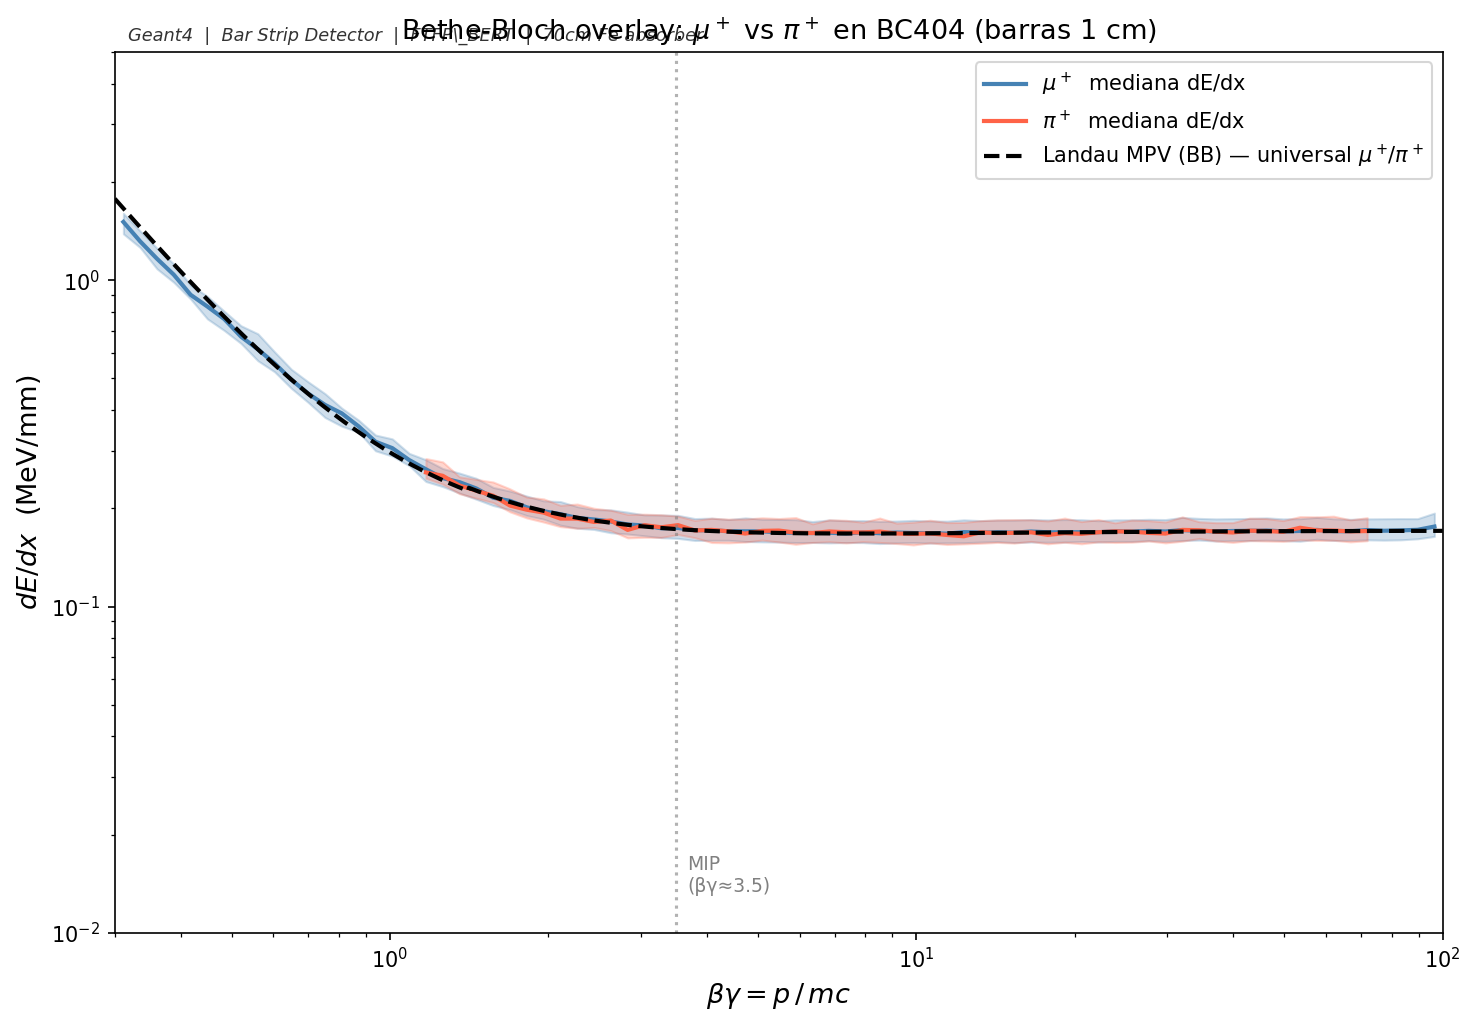
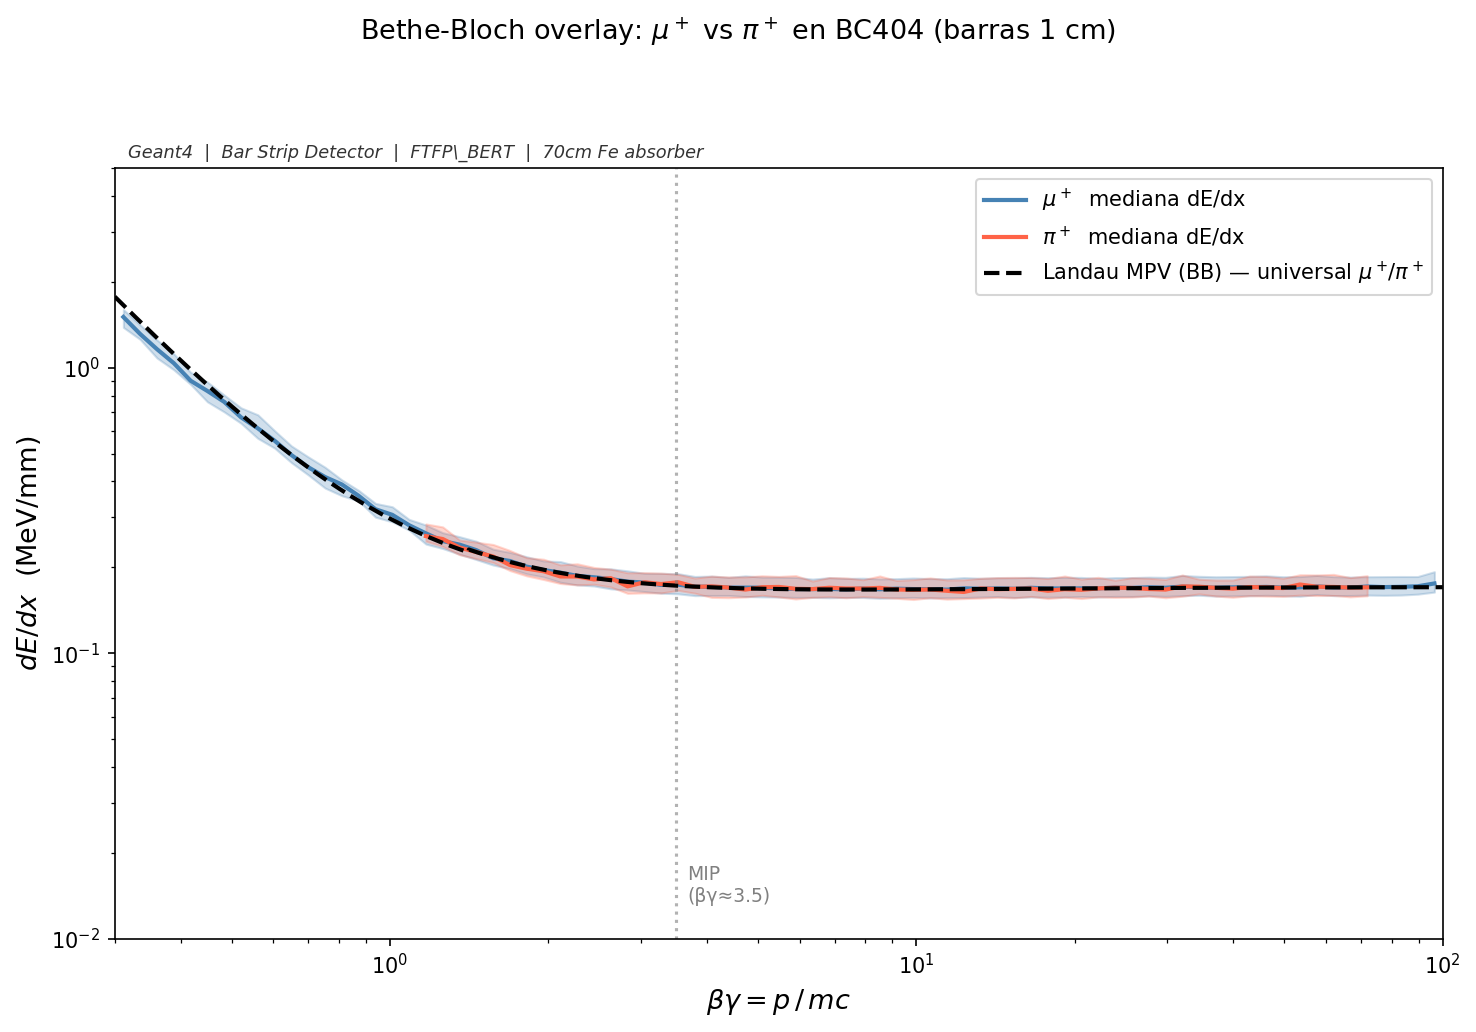
LG2M

diff --git a/Bar Strip Detector/plot_bethe_bloch.py b/Bar Strip Detector/plot_bethe_bloch.py
@@ -437,11 +437,11 @@ def plot_overlay(mu, pi, out_dir):
     ax.set_xscale("log"); ax.set_yscale("log")
     ax.set_xlabel(r"$\beta\gamma = p\,/\,mc$", fontsize=13)
     ax.set_ylabel(r"$dE/dx$  (MeV/mm)", fontsize=13)
-    ax.set_title(r"Bethe-Bloch overlay: $\mu^+$ vs $\pi^+$ en BC404 (barras 1 cm)", fontsize=13)
     ax.set_xlim(bg_range); ax.set_ylim(DEDX_MIN, DEDX_MAX)
     ax.legend(fontsize=10, framealpha=0.8)
     _add_info(ax)
-    fig.tight_layout()
+    fig.suptitle(r"Bethe-Bloch overlay: $\mu^+$ vs $\pi^+$ en BC404 (barras 1 cm)", fontsize=13)
+    fig.tight_layout(rect=[0, 0, 1, 0.94])
     _save(fig, out_dir, "bethe_bloch_overlay.png")
 
 
@@ -505,10 +505,10 @@ def plot_pid_combined(mu, pi, out_dir):
     ax.set_xscale("log")
     ax.set_xlabel(r"$p$  (GeV/c)", fontsize=13)
     ax.set_ylabel(r"$dE/dx$  (MeV/mm)", fontsize=13)
-    ax.set_title(r"PID: $\mu^+$ vs $\pi^+$ en BC404 bar strip detector", fontsize=13)
     ax.set_xlim(p_range_GeV); ax.set_ylim(0, DEDX_LIN_MAX)
     _add_info(ax)
-    fig.tight_layout()
+    fig.suptitle(r"PID: $\mu^+$ vs $\pi^+$ en BC404 bar strip detector", fontsize=13)
+    fig.tight_layout(rect=[0, 0, 1, 0.94])
     _save(fig, out_dir, "pid_combined.png")
 
 
@@ -535,9 +535,10 @@ def plot_layer_hits(mu, pi, out_dir):
         for rect, val in zip(bars, [layer0, layer1]):
             ax.text(rect.get_x() + rect.get_width() / 2, rect.get_height() * 1.01,
                     f"{val:,}", ha="center", va="bottom", fontsize=10)
-        ax.set_title(f"Hits por capa — {particle_label}", fontsize=12)
         ax.set_ylabel("Número de hits", fontsize=11)
         ax.set_ylim(0, max(layer0, layer1) * 1.15)
+        ax.text(0.5, 0.97, f"Hits por capa — {particle_label}",
+                transform=ax.transAxes, fontsize=12, ha="center", va="top", fontweight="bold")
         _add_info(ax, particle=particle_label)
 
     fig.tight_layout()
@@ -614,12 +615,11 @@ def plot_efficiency(glob_pattern: str, out_dir: str, n_total: int = 1000):
     ax.axhline(0.5, color="gray", ls=":", lw=1, alpha=0.5)
     ax.set_xlabel(r"$p$  (GeV/c)", fontsize=12)
     ax.set_ylabel(r"$\varepsilon = N_\mathrm{det}\,/\,N_\mathrm{total}$", fontsize=12)
-    ax.set_title(r"$\varepsilon = N_\mathrm{det}\,/\,N_\mathrm{total}$", fontsize=11)
     ax.set_ylim(-0.05, 1.10)
     ax.legend(fontsize=11, framealpha=0.85)
     _add_info(ax)
 
-    fig.tight_layout()
+    fig.tight_layout(rect=[0, 0, 1, 0.94])
     _save(fig, out_dir, "efficiency_vs_momentum.png")
 
 

diff --git a/Bar Strip Detector/README.md b/Bar Strip Detector/README.md
@@ -36,7 +36,8 @@ Cubo de G4_Fe, 70 × 70 × 70 cm, centrado en z = 35 cm.
 | Cobertura transversal | 1 m × 1 m |
 | Capa 1 | Barras a lo largo de X, posicionadas en Y, z = 100.5 cm |
 | Capa 2 | Barras a lo largo de Y, posicionadas en X, z = 103.5 cm |
-| Separación entre centros | 3 cm |
+| Separación entre centros (Capa 1 → Capa 2) | 3 cm |
+| Gap libre entre superficies | 2 cm (Capa 1 termina en z=101 cm; Capa 2 empieza en z=103 cm) |
 
 Los centros de barra van de −47.5 cm a +47.5 cm en pasos de 5 cm. No hay gaps entre barras.
 
@@ -48,7 +49,7 @@ Un evento se considera detectado cuando la partícula primaria (TrackID = 1) cum
 
 1. Atraviesa el bloque de hierro sin ser absorbida
 2. Entra en una barra de **Capa 1** y deposita energía (dE/dx registrado)
-3. Sale de Capa 1 y recorre los 3 cm de gap entre capas
+3. Sale de Capa 1 y recorre los 2 cm de gap libre entre capas (distancia entre superficies; la distancia centro a centro es 3 cm)
 4. Entra en una barra de **Capa 2** y deposita energía (dE/dx registrado)
 5. Sale del otro lado del centellador
 
@@ -106,6 +107,23 @@ El comando `/gun/momentumAmp` fija el módulo de **momento** (no energía cinét
 | 11 | layerID | int | 0 = Capa 1, 1 = Capa 2 | — |
 | 12 | barID | int | Número de barra dentro de la capa (0–19) | — |
 | 13 | particleID | int | 0 = μ⁺, 1 = π⁺ | — |
+
+---
+
+## Archivos fuente
+
+Todos los archivos están en `simulation_mixed/`.
+
+| Archivo | Qué define |
+|---|---|
+| `construction.cc / .hh` | Geometría completa: mundo, absorbedor de Fe, posicionamiento de las 40 barras en 2 capas |
+| `detector.cc / .hh` | Detector sensible: registra cada paso de la partícula primaria dentro de cualquier barra y llena el NTuple |
+| `generator.cc / .hh` | Fuente puntual en (0, 0, −2 m), selección 50/50 μ⁺/π⁺ por evento, dirección cónica hacia cara del Fe |
+| `physics.cc / .hh` | Lista de física: G4EmStandardPhysics + FTFP_BERT (hadrónica) + G4OpticalPhysics |
+| `run.cc / .hh` | Apertura del archivo ROOT por run, declaración de las 14 columnas del NTuple, ruta de salida |
+| `action.cc / .hh` | Inicialización de acciones (conecta generator, run y detector) |
+| `sim.cc` | `main()` — inicializa Geant4 y registra los managers |
+| `barrido_continuo.mac` | Macro de Geant4: 80 runs en escala log de 50 MeV/c a 10 GeV/c, 2000 eventos por run |
 
 ---
 
